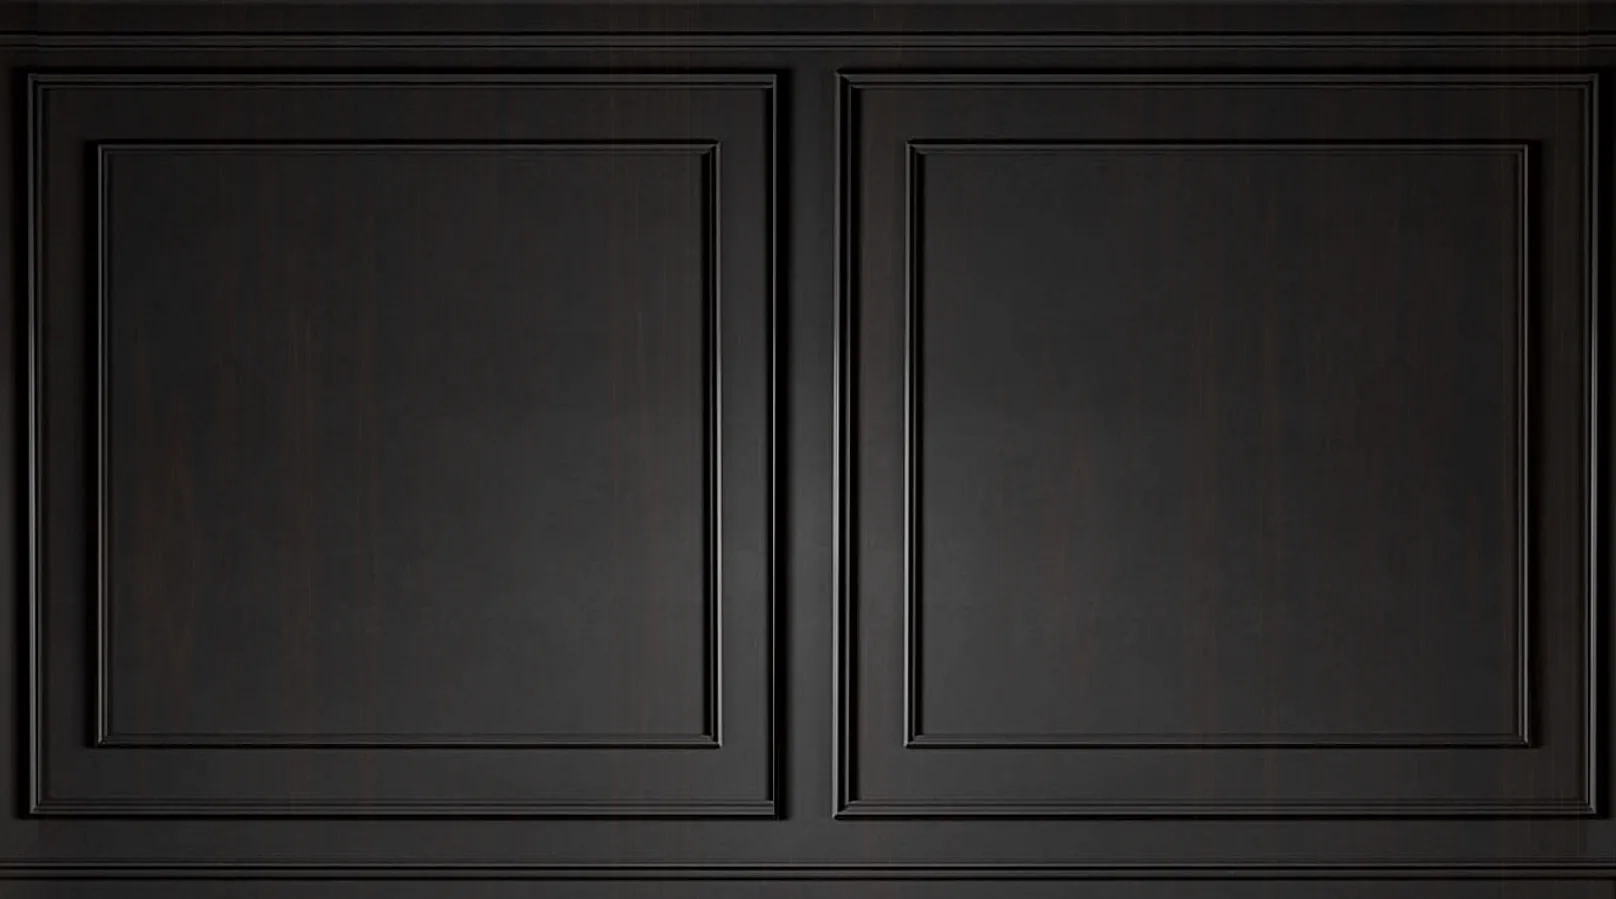
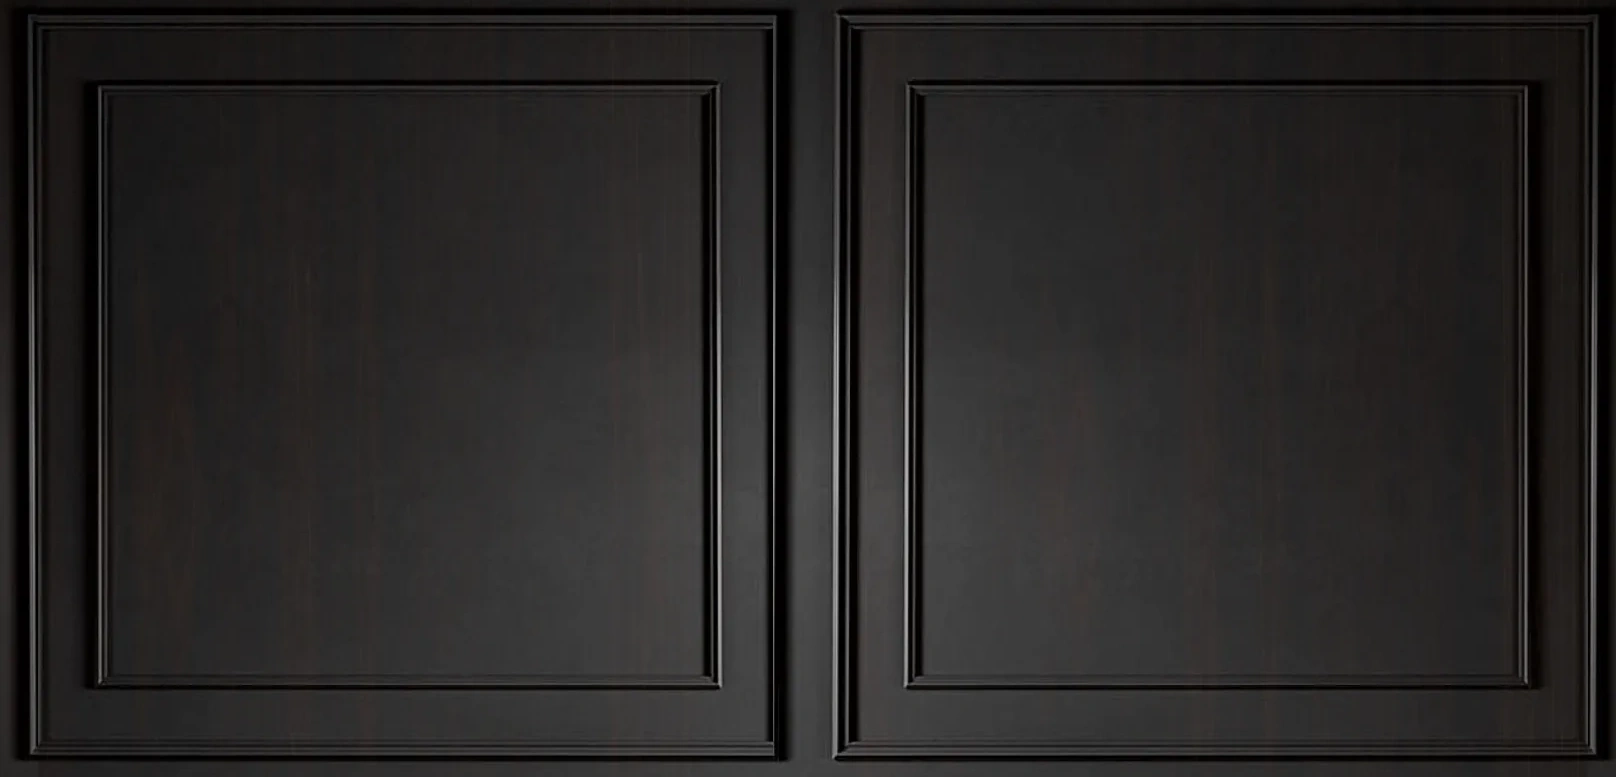
fix: aggiornata immagine boiserie e allineato CSS alle nuove proporzioni

diff --git a/css/home.css b/css/home.css
@@ -184,7 +184,7 @@ html { scroll-snap-type: y proximity; scroll-padding-top: var(--header-h, 170px)
   width: 100%;
   max-width: none;
   margin: 0;
-  aspect-ratio: 1616 / 899;
+  aspect-ratio: 1616 / 777;
   background: url("../images/boiserie-bg1.webp") center / cover no-repeat;
   opacity: 0;
   transform: scale(1.03);
@@ -202,8 +202,8 @@ html { scroll-snap-type: y proximity; scroll-padding-top: var(--header-h, 170px)
 }
 .card {
   position: absolute;
-  top: 16%;
-  height: 66.6%;
+  top: 10.9%;
+  height: 77.05%;
   display: flex;
   align-items: center;
   justify-content: center;
